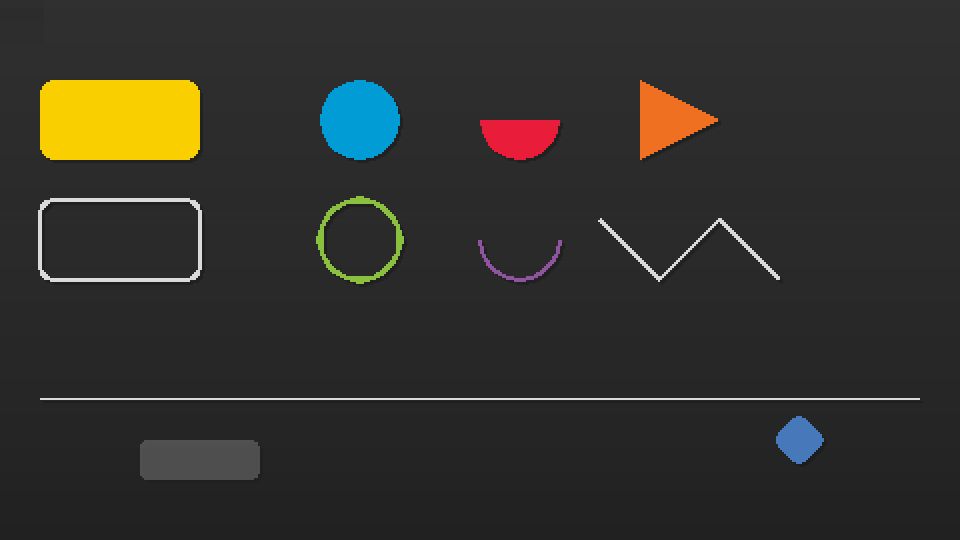
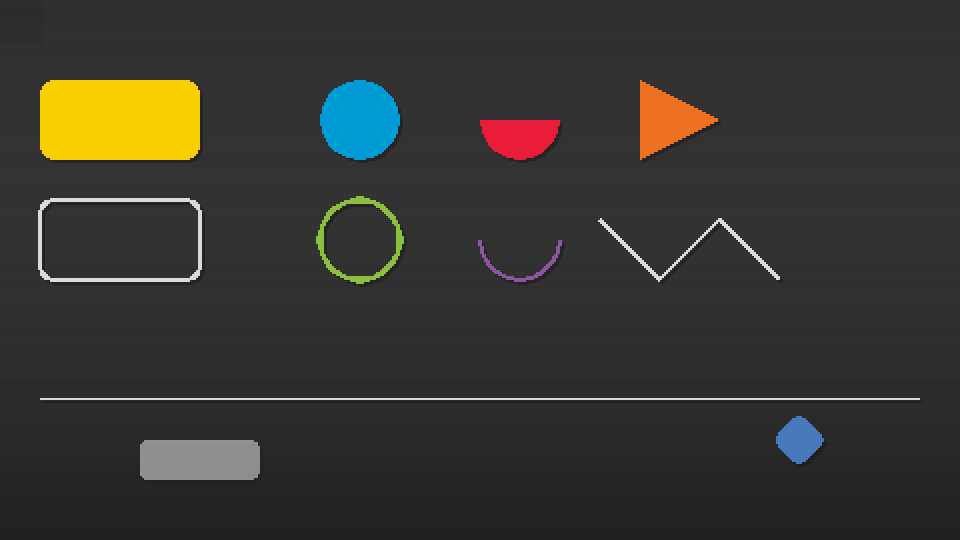
Engine: canvases composed premultiplied, as LÖVE
LÖVE draws a canvas premultiplied, so half-transparent shapes in a
canvas were too dark here. The renderers with a custom blend mode get
one; the software renderer divides each canvas by its alpha on the CPU.
The menu then matches the original within 2 levels in 92% of pixels.

Claude-Session: https://claude.ai/code/session_011eECohRKf757Ydp2i9w7Ng

Changed region(s): [[0.125, 0.8, 0.2812, 0.8889]]

diff --git a/eng/eng.h b/eng/eng.h
@@ -143,6 +143,7 @@ typedef struct {
 
 typedef struct {
     SDL_Texture* tex;           // the target, EG_W x EG_H
+    SDL_Texture* out;           // what is drawn of it (see `eg_canvas_out`)
     SDL_Vertex*  vs;            // the triangles of this frame
     int          vs_n, vs_max;
     EgRun*       rs;
@@ -156,6 +157,14 @@ static EgCanvas EG_CVS[EG_CANVASES];
 static int      EG_CVS_N = 0;
 static int      EG_CUR   = 0;   // the canvas that receives the shapes
 static SDL_Texture* EG_SHADOW = NULL;
+
+// LÖVE draws a canvas premultiplied: its content went through the alpha
+// blending already. SDL blends it again, unless the renderer has a
+// premultiplied blend mode (OpenGL has, the software renderer has not).
+// Then the content is read back and divided by its alpha, into a
+// streaming texture that SDL blends as usual.
+static SDL_BlendMode EG_PREMUL;
+static int           EG_PREMUL_OK = -1;     // not checked yet
 static SDL_Color EG_BG = { 0x30, 0x30, 0x30, 0xFF };
 
 static int eg_canvas_new (int screen, int shadow) {
@@ -166,7 +175,22 @@ static int eg_canvas_new (int screen, int shadow) {
     memset(c, 0, sizeof(*c));
     c->tex = SDL_CreateTexture(EG_REN, SDL_PIXELFORMAT_RGBA8888,
                                SDL_TEXTUREACCESS_TARGET, EG_W, EG_H);
-    SDL_SetTextureBlendMode(c->tex, SDL_BLENDMODE_BLEND);
+    if (EG_PREMUL_OK == -1) {
+        EG_PREMUL = SDL_ComposeCustomBlendMode(
+            SDL_BLENDFACTOR_ONE, SDL_BLENDFACTOR_ONE_MINUS_SRC_ALPHA, SDL_BLENDOPERATION_ADD,
+            SDL_BLENDFACTOR_ONE, SDL_BLENDFACTOR_ONE_MINUS_SRC_ALPHA, SDL_BLENDOPERATION_ADD);
+        EG_PREMUL_OK = (SDL_SetTextureBlendMode(c->tex, EG_PREMUL) == 0)
+                    && getenv("SNX_NO_PREMUL") == NULL;
+    }
+    if (EG_PREMUL_OK) {
+        SDL_SetTextureBlendMode(c->tex, EG_PREMUL);
+        c->out = c->tex;
+    } else {
+        SDL_SetTextureBlendMode(c->tex, SDL_BLENDMODE_NONE);
+        c->out = SDL_CreateTexture(EG_REN, SDL_PIXELFORMAT_RGBA32,
+                                   SDL_TEXTUREACCESS_STREAMING, EG_W, EG_H);
+        SDL_SetTextureBlendMode(c->out, SDL_BLENDMODE_BLEND);
+    }
     c->screen = screen;
     c->shadow = shadow;
     if (shadow && EG_SHADOW==NULL) {
@@ -248,9 +272,31 @@ static void eg_render (EgCanvas* cv, SDL_Texture* dst, int shadow) {
 
 // The end of a frame: renders the canvases, in the order of creation
 // (a canvas may draw an earlier one), and composes them to the window.
+// Makes `out` of a canvas from its target, when the renderer has no
+// premultiplied blend mode: each color divided by its alpha.
+static void eg_canvas_out (EgCanvas* cv) {
+    if (EG_PREMUL_OK) {
+        return;
+    }
+    static Uint8 px[EG_W*EG_H*4];
+    SDL_RenderReadPixels(EG_REN, NULL, SDL_PIXELFORMAT_RGBA32, px, EG_W*4);
+    for (int i=0; i<EG_W*EG_H; i++) {
+        Uint8* p = &px[i*4];
+        int a = p[3];
+        if (a!=0 && a!=255) {
+            for (int k=0; k<3; k++) {
+                int v = (p[k]*255 + a/2) / a;
+                p[k] = (v > 255) ? 255 : v;
+            }
+        }
+    }
+    SDL_UpdateTexture(cv->out, NULL, px, EG_W*4);
+}
+
 static void eg_frame (void) {
     for (int i=0; i<EG_CVS_N; i++) {
         eg_render(&EG_CVS[i], EG_CVS[i].tex, 0);
+        eg_canvas_out(&EG_CVS[i]);
     }
     SDL_SetRenderTarget(EG_REN, NULL);
     SDL_SetRenderDrawColor(EG_REN, EG_BG.r, EG_BG.g, EG_BG.b, 255);
@@ -267,7 +313,7 @@ static void eg_frame (void) {
             SDL_FRect s = { 1.5f*EG_SCALE, 1.5f*EG_SCALE, r.w, r.h };
             SDL_RenderCopyF(EG_REN, EG_SHADOW, NULL, &s);
         }
-        SDL_RenderCopyF(EG_REN, cv->tex, NULL, &r);
+        SDL_RenderCopyF(EG_REN, cv->out, NULL, &r);
     }
     for (int i=0; i<EG_CVS_N; i++) {
         EG_CVS[i].vs_n = 0;
@@ -281,11 +327,40 @@ static void eg_canvas_draw (int i, double x, double y, SDL_Color c) {
     if (i<0 || i>=EG_CVS_N || i==EG_CUR) {
         return;
     }
-    SDL_Texture* t = EG_CVS[i].tex;
+    SDL_Texture* t = EG_CVS[i].out;
     SDL_FPoint p0 = eg_xy(x, y),       p1 = eg_xy(x+EG_W, y);
     SDL_FPoint p2 = eg_xy(x+EG_W, y+EG_H), p3 = eg_xy(x, y+EG_H);
     eg_vertex(t, p0, c, 0, 0); eg_vertex(t, p1, c, 1, 0); eg_vertex(t, p2, c, 1, 1);
     eg_vertex(t, p0, c, 0, 0); eg_vertex(t, p2, c, 1, 1); eg_vertex(t, p3, c, 0, 1);
+}
+
+// Draws canvas `i` into the current one, except inside the rectangle
+// (x1,y1)-(x2,y2) in canvas coordinates: as `graphics.draw_with_mask`
+// of the original with an inverted rectangular mask, which the menu and
+// the arena use for the stars. The rectangle is in the current transform.
+static void eg_canvas_draw_outside (int i, double x1, double y1, double x2, double y2, SDL_Color c) {
+    if (i<0 || i>=EG_CVS_N || i==EG_CUR) {
+        return;
+    }
+    SDL_Texture* t = EG_CVS[i].out;
+    double xs[4] = { 0, x1, x2, EG_W };
+    double ys[4] = { 0, y1, y2, EG_H };
+    for (int a=0; a<3; a++) {
+        for (int b=0; b<3; b++) {
+            if (a==1 && b==1) {
+                continue;               // the hole
+            }
+            double qx0 = xs[a], qx1 = xs[a+1], qy0 = ys[b], qy1 = ys[b+1];
+            if (qx1<=qx0 || qy1<=qy0) {
+                continue;
+            }
+            float u0 = qx0/EG_W, u1 = qx1/EG_W, v0 = qy0/EG_H, v1 = qy1/EG_H;
+            SDL_FPoint p0 = eg_xy(qx0, qy0), p1 = eg_xy(qx1, qy0);
+            SDL_FPoint p2 = eg_xy(qx1, qy1), p3 = eg_xy(qx0, qy1);
+            eg_vertex(t, p0, c, u0, v0); eg_vertex(t, p1, c, u1, v0); eg_vertex(t, p2, c, u1, v1);
+            eg_vertex(t, p0, c, u0, v0); eg_vertex(t, p2, c, u1, v1); eg_vertex(t, p3, c, u0, v1);
+        }
+    }
 }
 
 ///////////////////////////////////////////////////////////////////////////////
